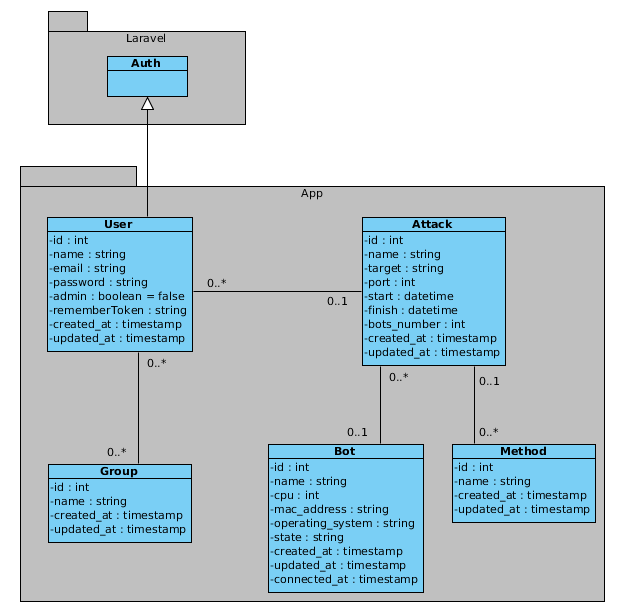
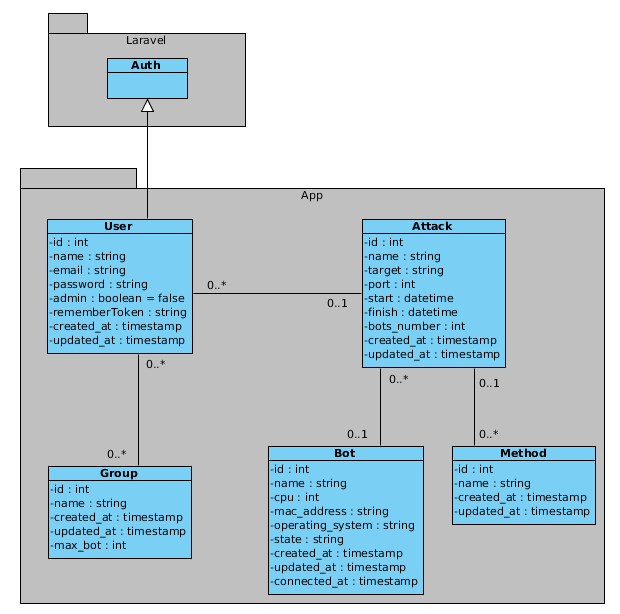
Add max_bot to groups table and manage in view

Changed region(s): [[0.0306, 0.0, 0.9806, 0.9902]]

diff --git a/src/web/resources/views/groups/index.blade.php b/src/web/resources/views/groups/index.blade.php
@@ -19,6 +19,8 @@
                 <tr>
                   <th>#</th>
                   <th>Nom</th>
+                  <th>Max bots</th>
+                  <th></th>
                   <th></th>
                   <th></th>
                 </tr>
@@ -28,8 +30,9 @@
                   <tr>
                     <td>{!! $group->id !!}</td>
                     <td class="text-primary"><strong>{!! $group->name !!}</strong></td>
+                    <td class="text-primary"><strong>{!! $group->max_bot !!}</strong></td>
                     <td><a href="{{ route('groups.show', [$group->id]) }}" class="btn btn-success btn-block">Voir</a></td>
-                    <td><a href="{{ route('groups.users', [$group->id]) }}" class="btn btn-success btn-block">Voir membres</a></td>
+                    <td><a href="{{ route('groups.users', [$group->id]) }}" class="btn btn-success btn-block">Voir users</a></td>
                     <td><a href="{{ route('groups.edit', [$group->id]) }}" class="btn btn-warning btn-block">Modifier</a></td>
                     <td>
                       {!! Form::open(['method' => 'DELETE', 'route' => ['groups.destroy', $group->id]]) !!}

diff --git a/src/web/database/migrations/2017_06_20_191114_add_max_bot_to_groups_table.php b/src/web/database/migrations/2017_06_20_191114_add_max_bot_to_groups_table.php
@@ -1,0 +1,32 @@
+<?php
+
+use Illuminate\Support\Facades\Schema;
+use Illuminate\Database\Schema\Blueprint;
+use Illuminate\Database\Migrations\Migration;
+
+class AddMaxBotToGroupsTable extends Migration
+{
+    /**
+     * Run the migrations.
+     *
+     * @return void
+     */
+    public function up()
+    {
+      Schema::table('groups', function (Blueprint $table) {
+        $table->integer('max_bot')->unsigned()->default(1);
+      });
+    }
+
+    /**
+     * Reverse the migrations.
+     *
+     * @return void
+     */
+    public function down()
+    {
+      Schema::table('groups', function (Blueprint $table) {
+        $table->dropColumn('max_bot');
+      });
+    }
+}

diff --git a/src/web/resources/views/groups/edit.blade.php b/src/web/resources/views/groups/edit.blade.php
@@ -12,6 +12,10 @@
             {!! Form::text('name', null, ['class' => 'form-control', 'placeholder' => 'Nom']) !!}
             {!! $errors->first('name', '<small class="help-block">:message</small>') !!}
           </div>
+          <div class="form-group {!! $errors->has('max_bot') ? 'has-error' : '' !!}">
+            {!! Form::number('max_bot', null, ['class' => 'form-control', 'placeholder' => 'Max_bot']) !!}
+            {!! $errors->first('max_bot', '<small class="help-block">:message</small>') !!}
+          </div>
           <div class="form-group">
             <table>
               <thead>

diff --git a/src/web/app/Repositories/GroupRepository.php b/src/web/app/Repositories/GroupRepository.php
@@ -16,6 +16,7 @@ class GroupRepository
     private function save(Group $group, Array $inputs)
     {
         $group->name = $inputs['name'];
+        $group->max_bot = $inputs['max_bot'];
 
         $group->save();
     }

diff --git a/src/web/app/Group.php b/src/web/app/Group.php
@@ -17,7 +17,7 @@ class Group extends Model
    * @var array
    */
   protected $fillable = [
-    'name',
+    'name', 'max_bot',
   ];
 
   /**
